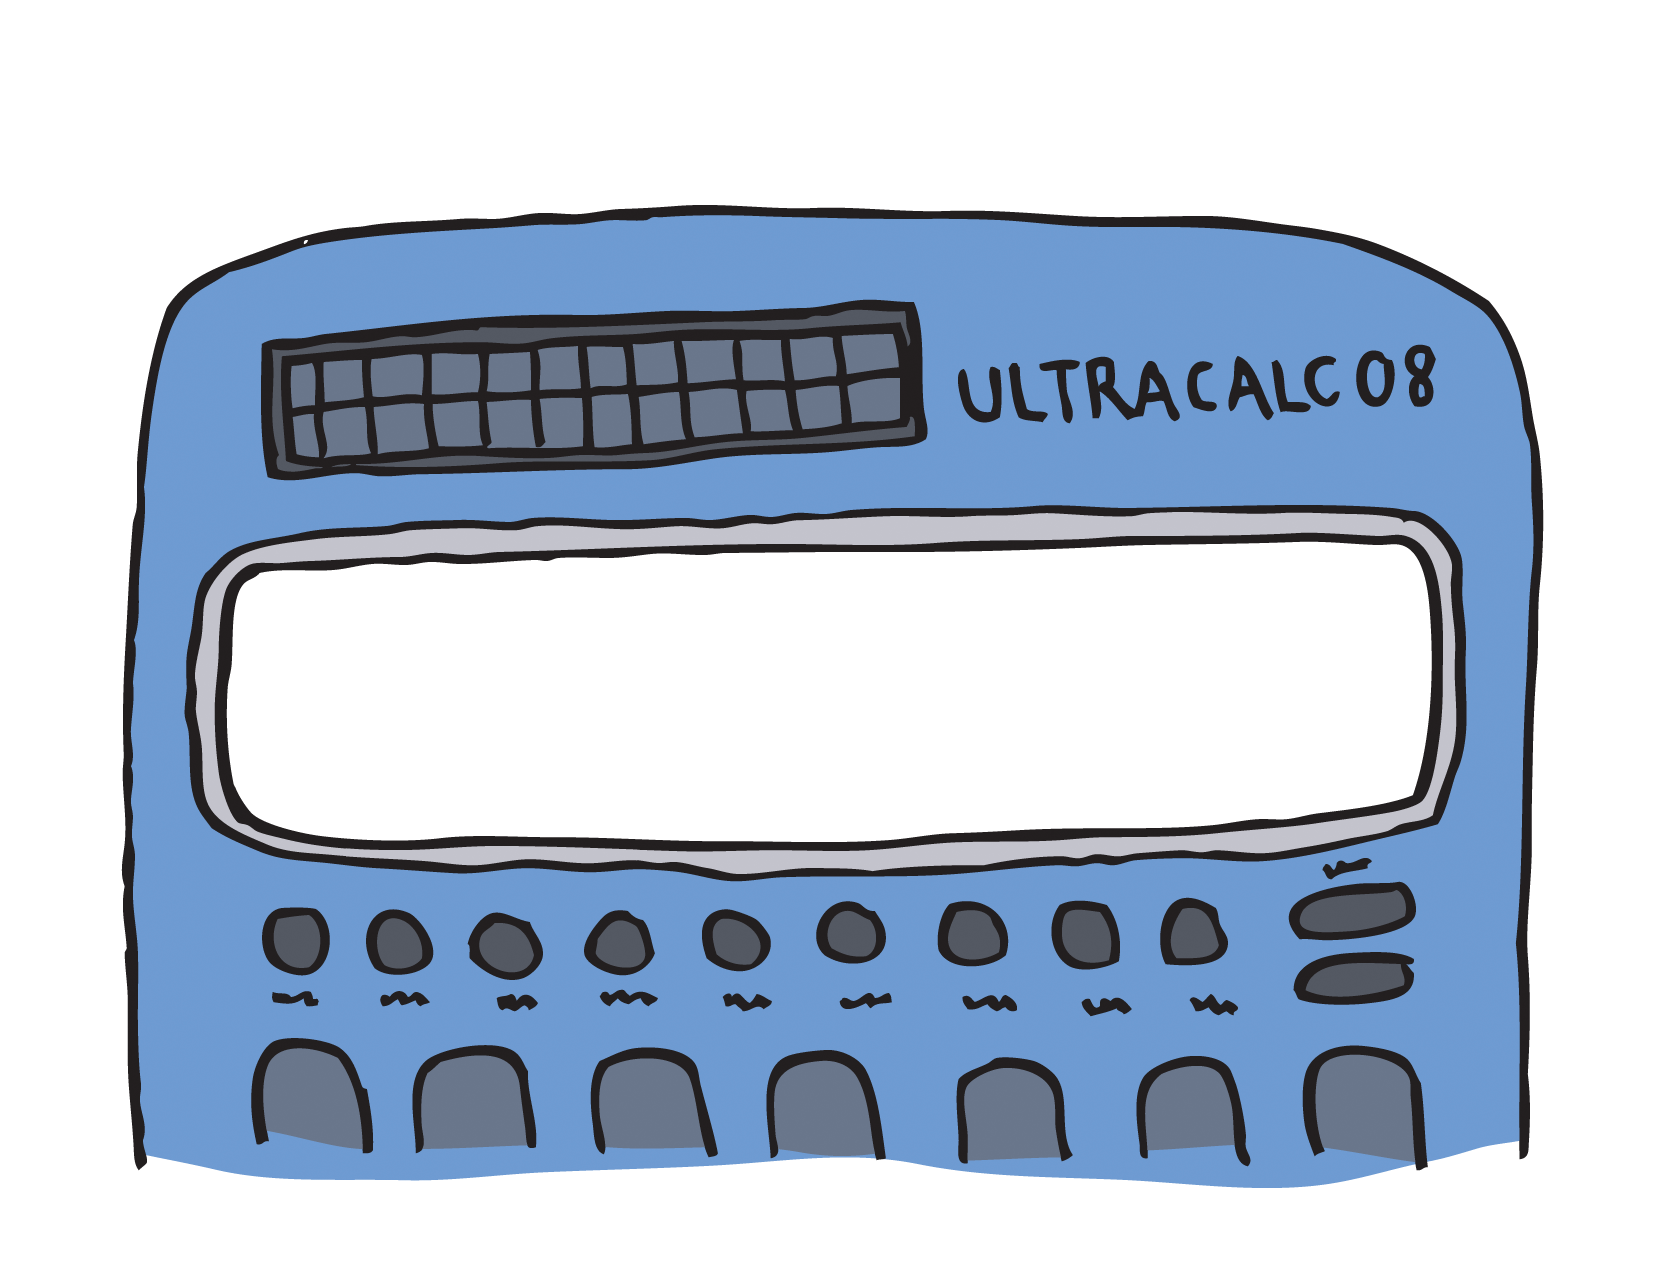
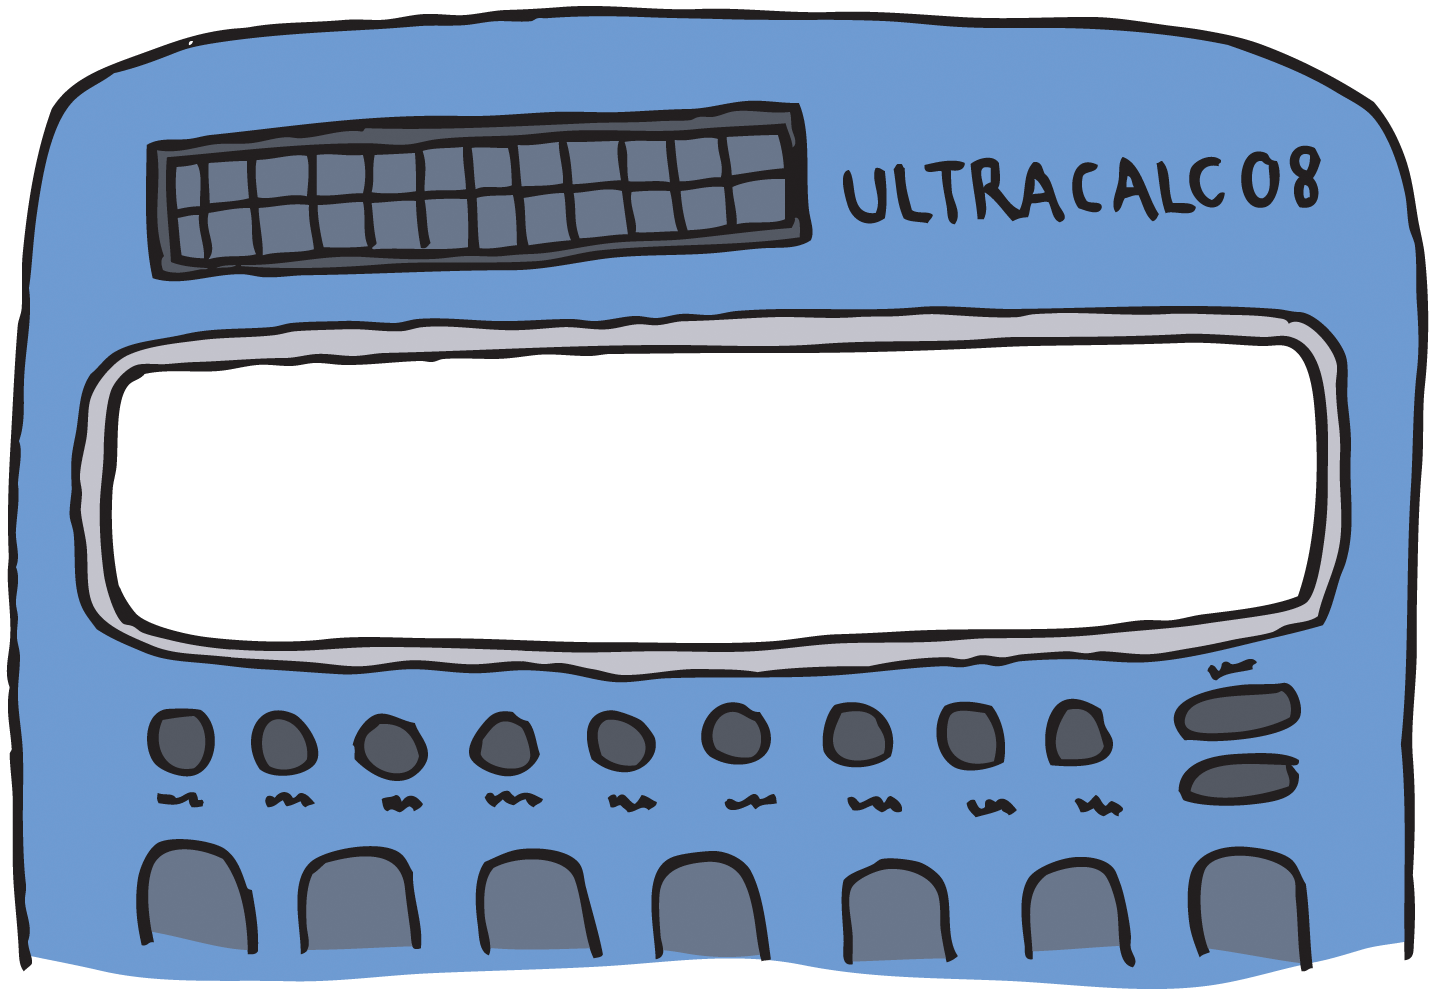
layout changes

diff --git a/app/styles/main.css b/app/styles/main.css
@@ -3,8 +3,8 @@ html {
 }
 
 body {
+    margin:0;
     font-family: "Helvetica Neue", Helvetica, Arial, sans-serif;
-    color: #FFF;
     height: 100%;
 }
 
@@ -21,11 +21,19 @@ body {
 }
 
 .news-ticker {
+    padding: 10px 20px 15px;
+    background-color: #333;
+    color: #FFF;
     float: left;
     top: 0;
     width: 60%;
-    background-color: green;
     height: 15%;
+}
+
+.inv-main {
+    right: 0;
+    height:100%;
+    background-color: purple;
 }
 
 #mmv-main {
@@ -67,9 +75,10 @@ body {
 }
 
 .banker-image-container{
-    width: 60%;
-    height: 60%;
-    padding: 0 20%;
+    margin-left:auto;
+    margin-right:auto;
+    width: 80%;
+    height: 80%;
 }
 
 .banker-image-container img{
@@ -78,10 +87,8 @@ body {
 }
 
 .calculator-container{
-    background-color: white;
-    width: 60%;
-    height: 40%;
-    padding: 0 20%;
+    width: 100%;
+    height: 100%;
 }
 
 .calculator-container img{
@@ -90,7 +97,8 @@ body {
 }
 
 .calculator-display{
-    position: absolute;
+    position:absolute;
     left: 56%;
-    top: 39%;
+    top: 70%;
+    color: black;
 }
